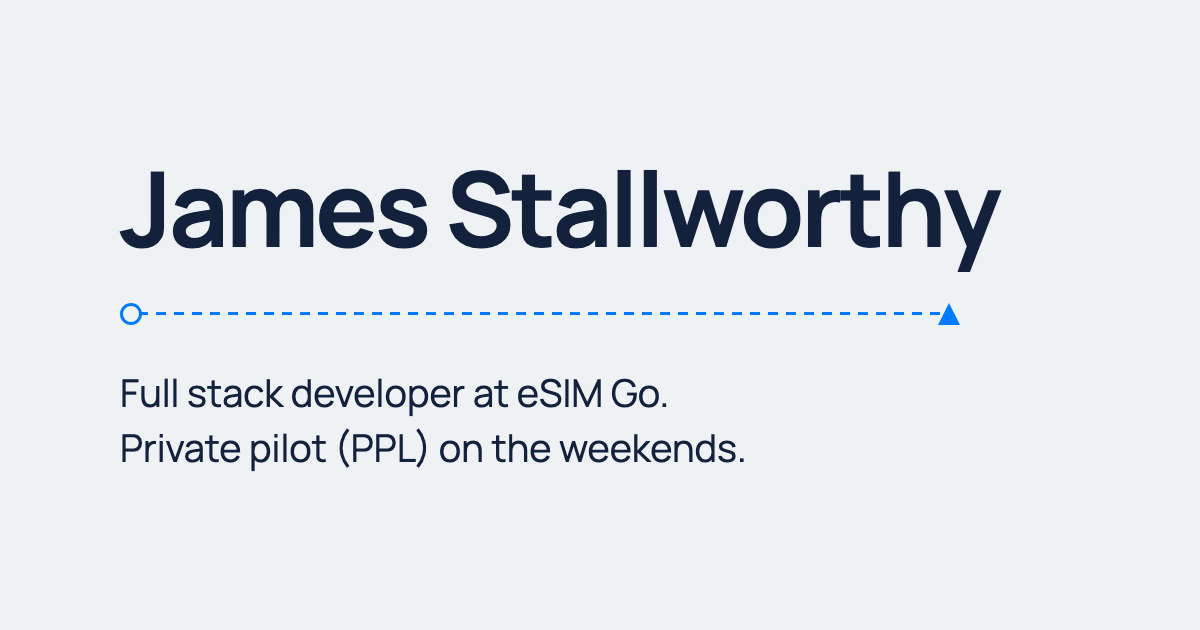
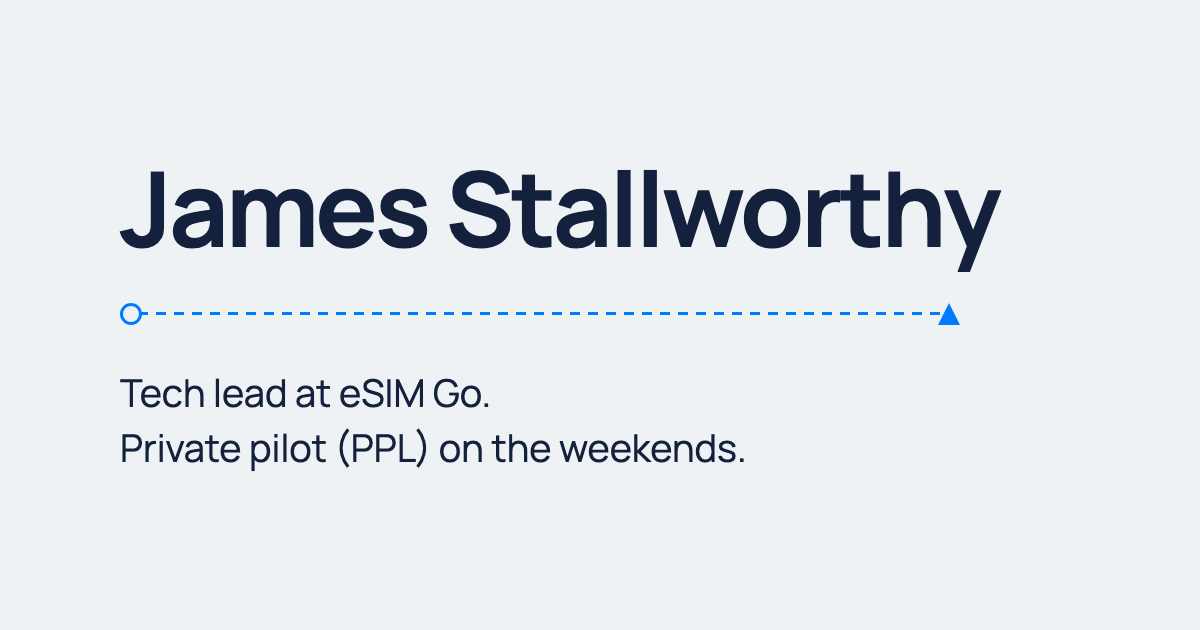
Update job title to tech lead at eSIM Go
Claude-Session: https://claude.ai/code/session_011FqugjzK5M5Z99kyceQsbY

Changed region(s): [[0.0925, 0.6032, 0.555, 0.6635]]

diff --git a/index.html b/index.html
@@ -5,15 +5,15 @@
         <meta name="viewport" content="width=device-width, initial-scale=1">
 
         <title>James Stallworthy</title>
-        <meta name="description" content="Full stack developer at eSIM Go and private pilot.">
+        <meta name="description" content="Tech lead at eSIM Go and private pilot.">
         <meta property="og:type" content="website">
         <meta property="og:url" content="https://www.jamesstallworthy.com/">
         <meta property="og:title" content="James Stallworthy">
-        <meta property="og:description" content="Full stack developer at eSIM Go and private pilot.">
+        <meta property="og:description" content="Tech lead at eSIM Go and private pilot.">
         <meta property="og:image" content="https://www.jamesstallworthy.com/og-image.png">
         <meta property="og:image:width" content="1200">
         <meta property="og:image:height" content="630">
-        <meta property="og:image:alt" content="James Stallworthy. Full stack developer at eSIM Go. Private pilot (PPL) on the weekends.">
+        <meta property="og:image:alt" content="James Stallworthy. Tech lead at eSIM Go. Private pilot (PPL) on the weekends.">
         <meta name="twitter:card" content="summary_large_image">
         <meta name="color-scheme" content="light dark">
 
@@ -33,7 +33,7 @@
 
                 <div class="route" aria-hidden="true"></div>
 
-                <p class="role">Full stack developer at eSIM Go.</p>
+                <p class="role">Tech lead at eSIM Go.</p>
                 <p class="role">Private pilot (PPL) on the weekends.</p>
 
                 <nav class="links" aria-label="Elsewhere">
